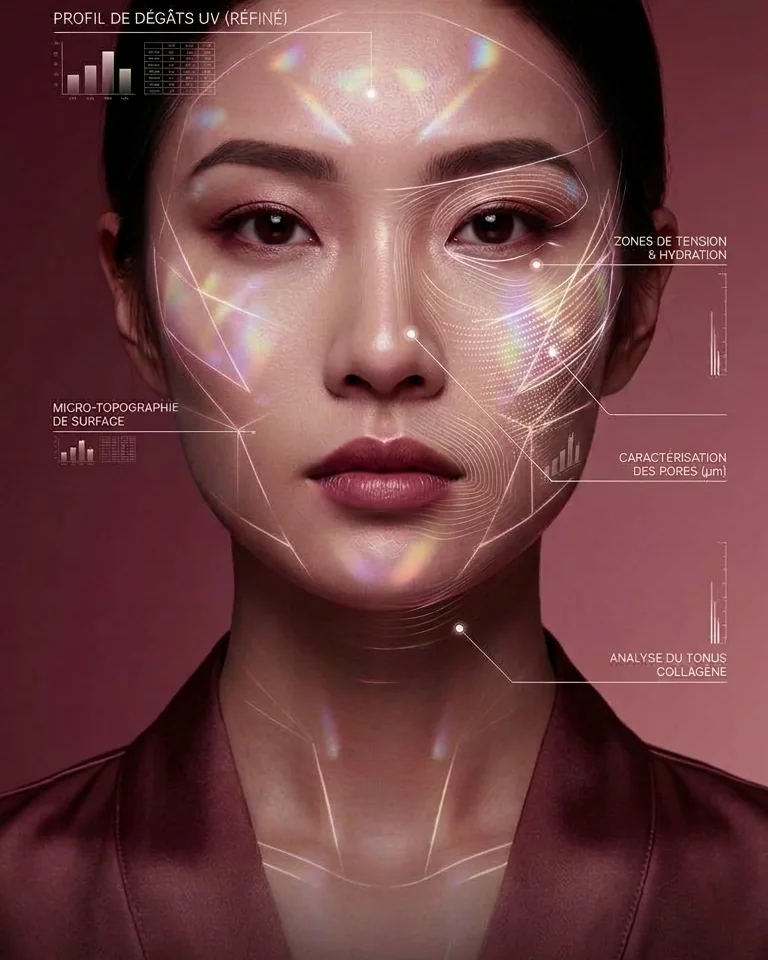
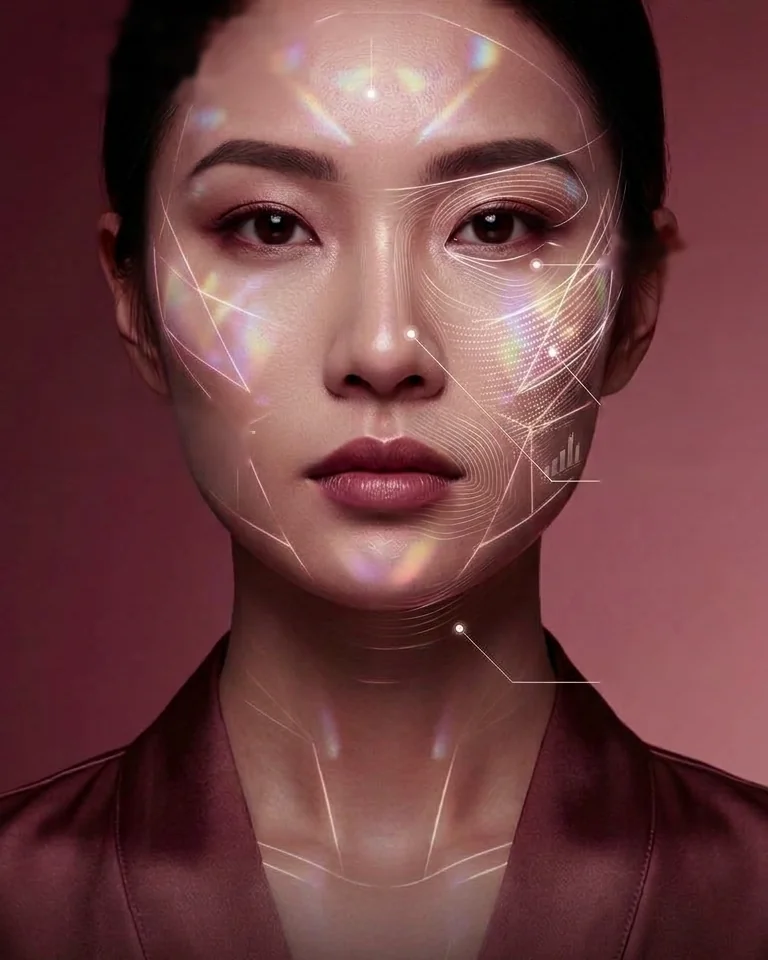
Diagnostic animé : scan et annotations qui s'écrivent

diff --git a/index.html b/index.html
@@ -186,6 +186,27 @@ p{margin:0}
 .flow__top .sec__head{margin-bottom:0}
 .flow__img{margin:0;border-radius:var(--r-panel);overflow:hidden;aspect-ratio:4/5;box-shadow:0 40px 80px -40px rgba(0,0,0,.7);border:1px solid rgba(245,237,225,.18)}
 .flow__img img{display:block;width:100%;height:100%;object-fit:cover}
+/* Diagnostic animé : scan + annotations qui s'écrivent */
+.scan{position:relative}
+.scan__bar{position:absolute;left:0;right:0;top:0;height:22%;pointer-events:none;opacity:0;background:linear-gradient(to bottom,rgba(255,236,242,0),rgba(255,236,242,.16) 70%,rgba(255,246,236,.55) 96%,rgba(255,246,236,0));mix-blend-mode:screen;transform:translateY(-100%)}
+.scan__bar::after{content:"";position:absolute;left:0;right:0;bottom:4%;height:1.5px;background:linear-gradient(90deg,transparent,rgba(255,250,244,.95) 20%,rgba(255,250,244,.95) 80%,transparent);box-shadow:0 0 12px rgba(255,236,242,.9)}
+.scan.is-on .scan__bar{animation:scanY 2.6s cubic-bezier(.45,0,.35,1) .1s 1 both,scanLoop 9s cubic-bezier(.45,0,.35,1) 9s infinite}
+@keyframes scanY{0%{opacity:0;transform:translateY(-100%)}8%{opacity:1}92%{opacity:1}100%{opacity:0;transform:translateY(460%)}}
+@keyframes scanLoop{0%{opacity:0;transform:translateY(-100%)}4%{opacity:.7}26%{opacity:.7}30%,100%{opacity:0;transform:translateY(460%)}}
+.scan__svg{position:absolute;inset:0;width:100%;height:100%;pointer-events:none;overflow:visible}
+.scan__svg path{fill:none;stroke:rgba(255,246,238,.85);stroke-width:1.4;vector-effect:non-scaling-stroke;stroke-dasharray:1;stroke-dashoffset:1}
+.scan.is-on .scan__svg path{transition:stroke-dashoffset .7s cubic-bezier(.4,0,.2,1);transition-delay:calc(1.4s + var(--k) * .55s);stroke-dashoffset:0}
+.scan__svg circle{fill:#fff6f0;opacity:0;transform-box:fill-box;transform-origin:center;filter:drop-shadow(0 0 4px rgba(255,236,242,.9))}
+.scan.is-on .scan__svg circle{animation:dotIn .5s ease calc(1.1s + var(--k) * .55s) both,dotPulse 2.4s ease-in-out calc(3.5s + var(--k) * .3s) infinite}
+@keyframes dotIn{from{opacity:0;transform:scale(.2)}to{opacity:1;transform:scale(1)}}
+@keyframes dotPulse{0%,100%{opacity:1;transform:scale(1)}50%{opacity:.55;transform:scale(1.6)}}
+.scan__lbls{position:absolute;inset:0;pointer-events:none}
+.scan__lbl{position:absolute;transform:translateY(-100%);font:500 clamp(.6rem,1.05vw,.74rem)/1.15 var(--f-body);letter-spacing:.12em;text-transform:uppercase;color:#FFF6EE;text-shadow:0 1px 6px rgba(40,8,16,.55);white-space:nowrap;padding-bottom:4px}
+.scan__lbl--r{text-align:right}
+.scan__lbl .c{display:inline-block;opacity:0;transform:translateY(3px)}
+.scan.is-on .scan__lbl .c{opacity:1;transform:none;transition:opacity .25s ease,transform .3s ease;transition-delay:calc(2s + var(--k) * .55s + var(--i) * 38ms)}
+@media (prefers-reduced-motion:reduce){.scan__bar{display:none}.scan__svg path{stroke-dashoffset:0}.scan__svg circle,.scan__lbl .c{opacity:1;transform:none;animation:none}}
+
 @media (max-width:860px){.flow__top{grid-template-columns:minmax(0,1fr)}.flow__img{max-width:380px;width:100%;justify-self:center}}
 .flow h2{color:var(--powder)}
 .flow .lede{color:rgba(245,237,225,.78)}
@@ -819,7 +840,7 @@ p{margin:0}
         <h2 id="h-flow">Une demi-journée, quatre temps forts</h2>
         <p class="lede">De l'accueil à la sélection de vos produits, chaque moment a été pensé pour allier expertise et détente. Vous n'avez qu'à venir.</p>
       </div>
-      <figure class="flow__img"><img src="img/diagnostic-peau.webp" width="768" height="960" loading="lazy" decoding="async" alt="Visage analysé lors du diagnostic de peau SkinMi : hydratation, texture, pores et éclat"></figure>
+      <figure class="flow__img scan" id="scan"><img src="img/diagnostic-peau.webp" width="768" height="960" loading="lazy" decoding="async" alt="Visage analysé lors du diagnostic de peau SkinMi : éclat, hydratation, barrière cutanée, texture, pores et sensibilité"><i class="scan__bar" aria-hidden="true"></i><svg class="scan__svg" viewBox="0 0 768 960" preserveAspectRatio="none" aria-hidden="true"><path d="M370 93 V48 H60" pathLength="1" style="--k:0"/><path d="M535 263 H735" pathLength="1" style="--k:1"/><path d="M552 352 L598 405 H735" pathLength="1" style="--k:2"/><path d="M250 430 H60" pathLength="1" style="--k:3"/><path d="M598 480 H735" pathLength="1" style="--k:4"/><path d="M459 628 L510 683 H735" pathLength="1" style="--k:5"/><circle cx="370" cy="93" r="5" style="--k:0"/><circle cx="535" cy="263" r="5" style="--k:1"/><circle cx="552" cy="352" r="5" style="--k:2"/><circle cx="250" cy="430" r="5" style="--k:3"/><circle cx="410" cy="333" r="5" style="--k:4"/><circle cx="459" cy="628" r="5" style="--k:5"/></svg><div class="scan__lbls" aria-hidden="true"><span class="scan__lbl scan__lbl--l" style="--k:0;left:7.8%;top:4.6%">Éclat du teint</span><span class="scan__lbl scan__lbl--r" style="--k:1;right:4.3%;top:27.0%">Hydratation</span><span class="scan__lbl scan__lbl--r" style="--k:2;right:4.3%;top:41.8%">Barrière cutanée</span><span class="scan__lbl scan__lbl--l" style="--k:3;left:7.8%;top:44.4%">Texture</span><span class="scan__lbl scan__lbl--r" style="--k:4;right:4.3%;top:49.6%">Pores</span><span class="scan__lbl scan__lbl--r" style="--k:5;right:4.3%;top:70.7%">Sensibilité</span></div></figure>
     </div>
     <ol class="steps" id="steps">
       <li class="track" aria-hidden="true"><div class="track__fill"></div></li>
@@ -1514,6 +1535,14 @@ addEventListener("scroll",onScroll,{passive:true}); onScroll();
   function close(){M.hidden=true; if(last) last.focus()}
   M.addEventListener("click",e=>{if(e.target.closest("[data-close]")) close()});
   document.addEventListener("keydown",e=>{if(M.hidden) return; if(e.key==="Escape") close(); else if(e.key==="ArrowRight") step(1); else if(e.key==="ArrowLeft") step(-1)});
+})();
+
+/* Diagnostic animé : lettres + déclenchement à l'arrivée */
+(function(){
+  const f=document.getElementById("scan"); if(!f) return;
+  f.querySelectorAll(".scan__lbl").forEach(l=>{const t=l.textContent;l.textContent="";[...t].forEach((ch,i)=>{const c=document.createElement("span");c.className="c";c.textContent=ch===" "?"\u00a0":ch;c.style.setProperty("--i",i);l.appendChild(c)})});
+  if(matchMedia("(prefers-reduced-motion: reduce)").matches||!("IntersectionObserver" in window)){f.classList.add("is-on");return}
+  new IntersectionObserver((es,o)=>{if(es[0].isIntersecting){f.classList.add("is-on");o.disconnect()}},{threshold:.45}).observe(f);
 })();
 </script>
 </html>
